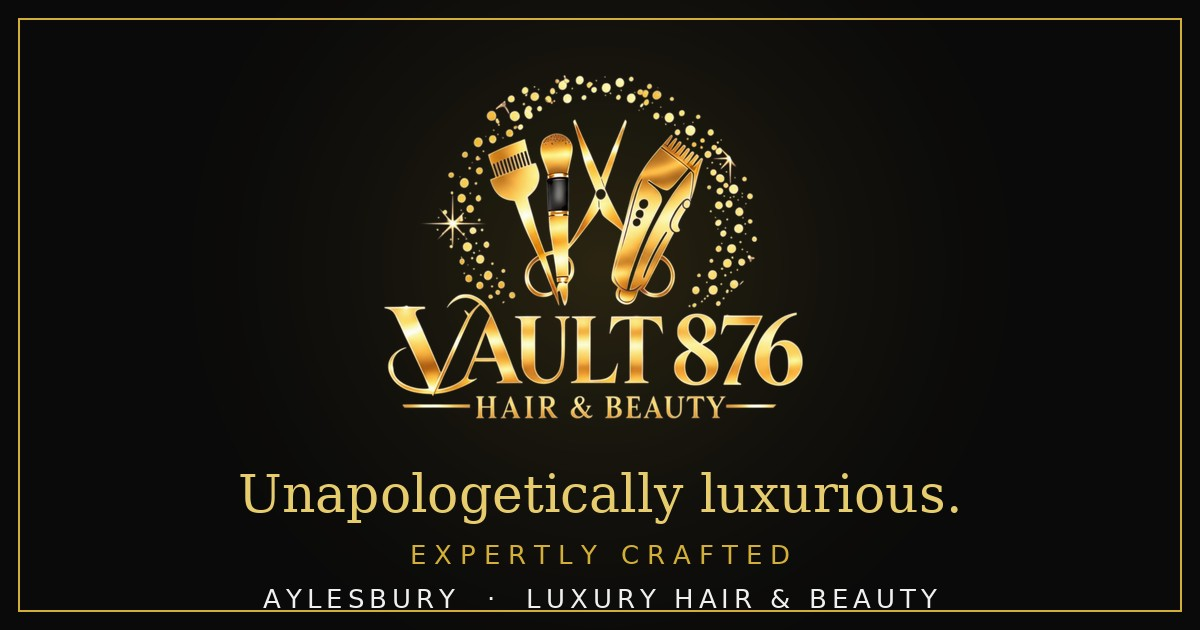
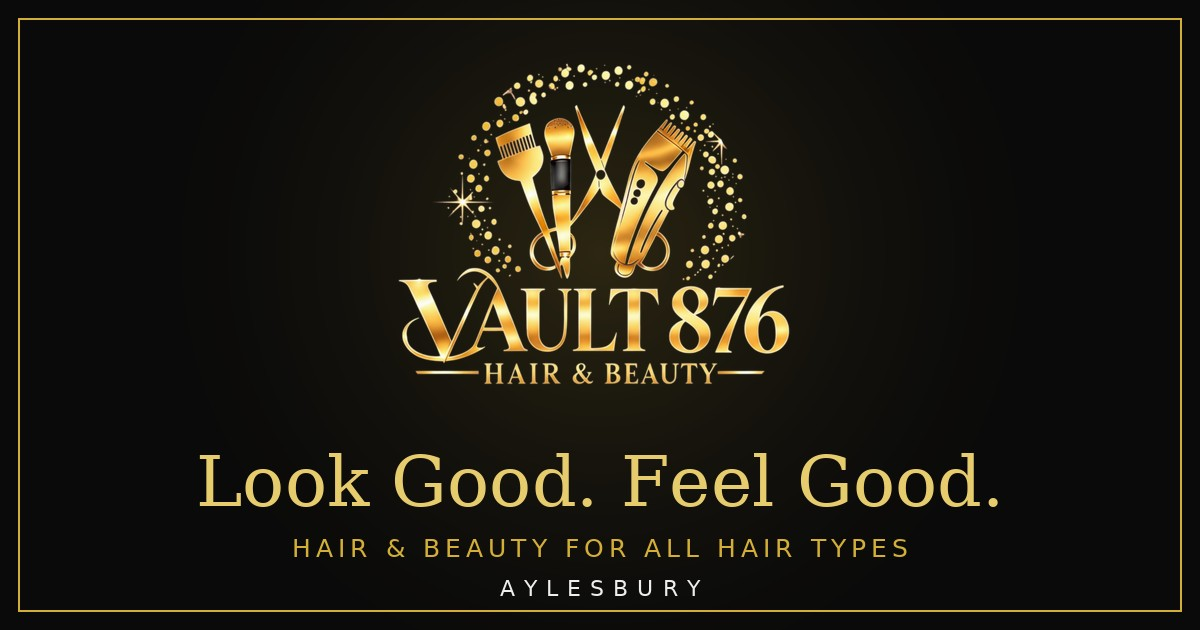
OG card + meta: client's real brand copy
Regenerate og-image.jpg with her actual lines — "Look Good. Feel Good."
(gold serif) over "HAIR & BEAUTY FOR ALL HAIR TYPES" and "AYLESBURY",
keeping the obsidian + gold crest/frame treatment. Update the description,
og:description, twitter:description and og:image:alt to match: "Look good.
Feel good. Hair & beauty for all hair types. Book your appointment at
Vault 876, Aylesbury." Replaces the generic "Unapologetically luxurious."

Changed region(s): [[0.3083, 0.0905, 0.6783, 0.6635], [0.1542, 0.7238, 0.8325, 0.9651], [0.2158, 0.9349, 0.4008, 0.9651]]

diff --git a/index.html b/index.html
@@ -19,7 +19,7 @@
     <meta name="viewport" content="width=device-width, initial-scale=1.0" />
     <meta
       name="description"
-      content="Unapologetically luxurious. Expertly crafted. Book your appointment at Vault 876, Aylesbury's premier hair and beauty salon."
+      content="Look good. Feel good. Hair & beauty for all hair types. Book your appointment at Vault 876, Aylesbury."
     />
     <!-- Obsidian mobile browser chrome -->
     <meta name="theme-color" content="#0A0A0A" />
@@ -30,7 +30,7 @@
     <meta property="og:title" content="Vault 876 | Luxury Hair & Beauty" />
     <meta
       property="og:description"
-      content="Unapologetically luxurious. Expertly crafted. Book your appointment at Vault 876."
+      content="Look good. Feel good. Hair & beauty for all hair types. Book your appointment at Vault 876, Aylesbury."
     />
     <meta property="og:url" content="https://vault876.boanetworks.com" />
     <meta
@@ -41,7 +41,7 @@
     <meta property="og:image:height" content="630" />
     <meta
       property="og:image:alt"
-      content="Vault 876 — Luxury Hair & Beauty, Aylesbury"
+      content="Vault 876 — Look Good. Feel Good. Hair & beauty for all hair types, Aylesbury"
     />
 
     <!-- Twitter / X card -->
@@ -49,7 +49,7 @@
     <meta name="twitter:title" content="Vault 876 | Luxury Hair & Beauty" />
     <meta
       name="twitter:description"
-      content="Unapologetically luxurious. Expertly crafted. Book your appointment at Vault 876."
+      content="Look good. Feel good. Hair & beauty for all hair types. Book your appointment at Vault 876, Aylesbury."
     />
     <meta
       name="twitter:image"
